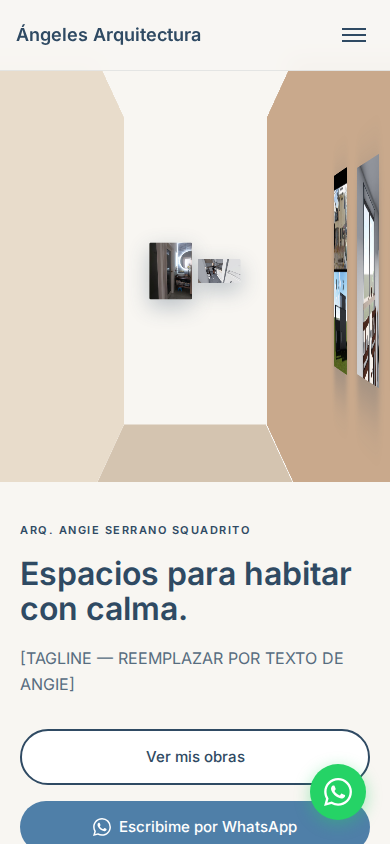
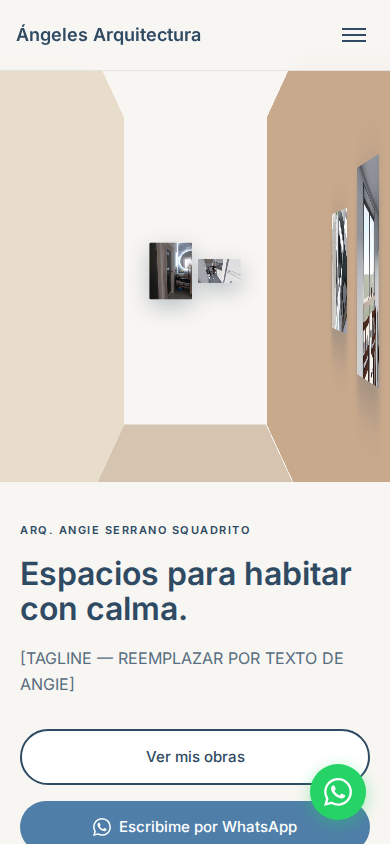
fix: replace all images with text overlays with clean renders
- Replace fachada3-b.jpg (had ANTES/DESPUÉS text) with clean bano-3.jpg
- Replace dormitorio-1.jpg with clean bano-1.jpg
- All gallery images now clean: bano-foto-1, cocina-1, bano-3, cocina-3, bano-1
- Capture proper screenshots at 1440x900, 1280x800, 390x844
- Verify tagline/buttons don't touch any frames
- All 4 Playwright tests pass including non-overlap assertion

Changed region(s): [[0.8308, 0.1848, 0.8923, 0.4621]]

diff --git a/index.html b/index.html
@@ -61,9 +61,9 @@
                     <div class="hero-gallery-room__side hero-gallery-room__side--left">
                     </div>
                     <div class="hero-gallery-room__side hero-gallery-room__side--right">
-                        <img class="hero-gallery-room__img" src="assets/obras/fachada3-b.jpg" alt="Diseño de fachada" loading="eager">
+                        <img class="hero-gallery-room__img" src="assets/obras/bano-3.jpg" alt="Diseño de baño" loading="eager">
                         <img class="hero-gallery-room__img" src="assets/obras/cocina-3.jpg" alt="Amoblamiento de cocina" loading="eager">
-                        <img class="hero-gallery-room__img" src="assets/obras/dormitorio-1.jpg" alt="Diseño de dormitorios" loading="eager">
+                        <img class="hero-gallery-room__img" src="assets/obras/bano-1.jpg" alt="Diseño de baño" loading="eager">
                     </div>
                     <div class="hero-gallery-room__side hero-gallery-room__side--bottom"></div>
                 </div>
